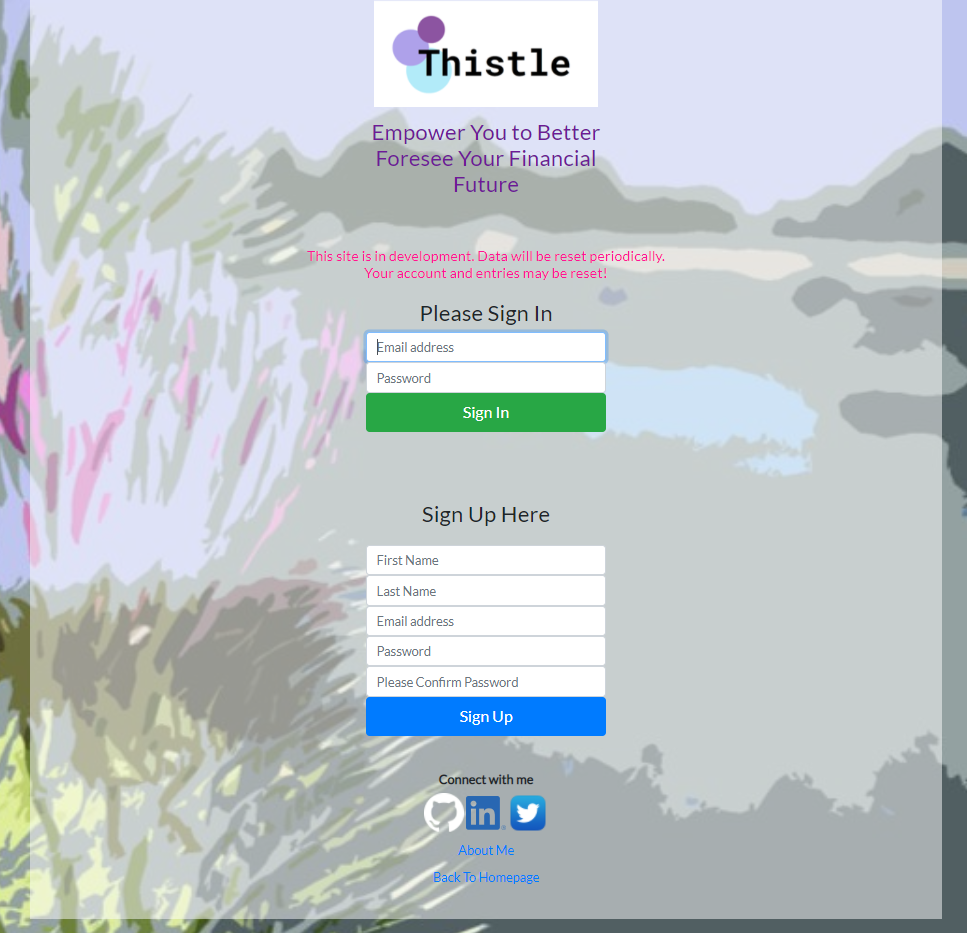
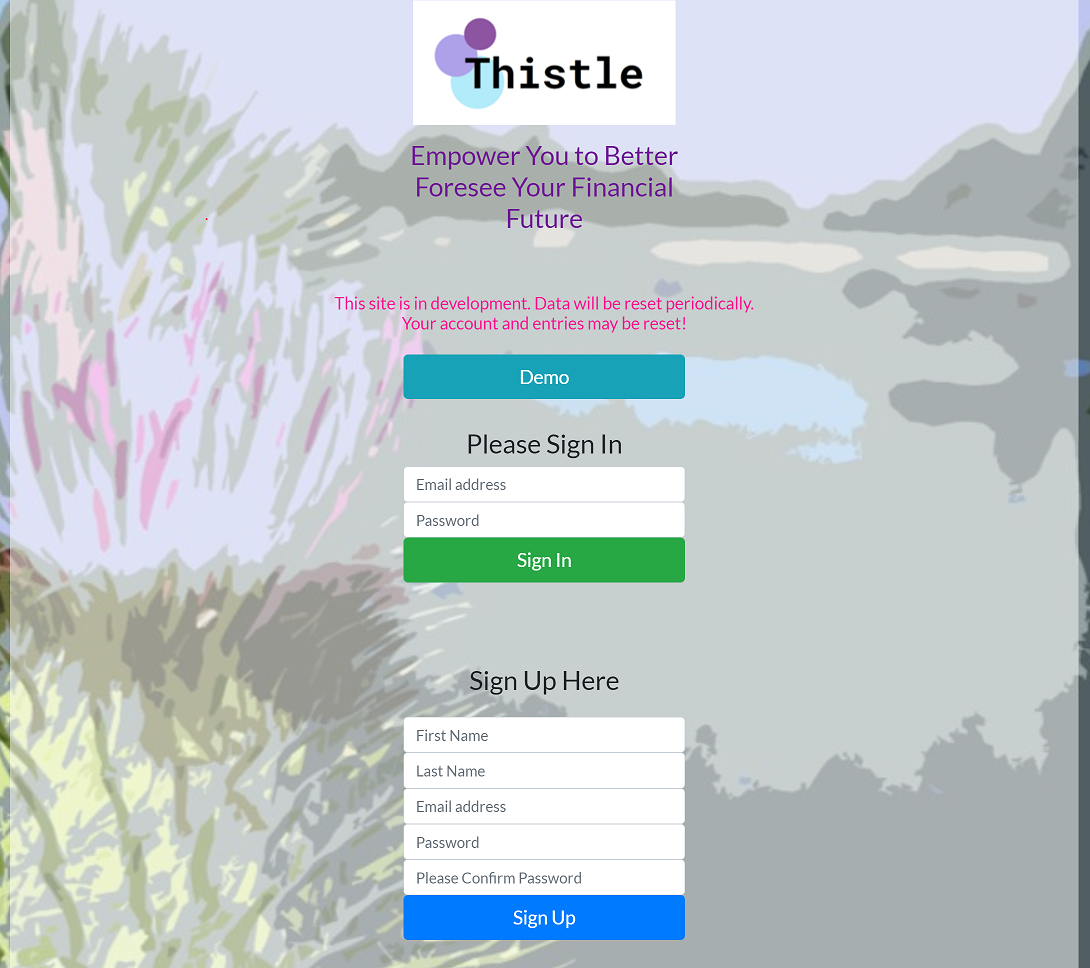
updated homepage img and added iframe

diff --git a/templates/homepage.html b/templates/homepage.html
@@ -4,98 +4,108 @@
 {% block body %}
 
 <body class="text-center">
-  <img src="/static/ThistleLogo.png" />
-  <!-- <h1 class="title">Thistle</h1> -->
-  <h3 id="subtitle">Empower You to Better Foresee Your Financial Future</h3>
-  <br>
-  <br>
-  <h5 class="warning">This site is in development. Data will be reset periodically. <br>Your account and entries may
-    be
-    reset!</h5>
-  <form class="form"
-        action="/demo"
-        method="POST">
-    <button type="submit"
-            class="btn btn-lg btn-info btn-block"
-            data-toggle="tooltip"
-            title="Ms Piggy's Profile">Demo</button>
-  </form>
+       <img src="/static/ThistleLogo.png" />
+       <!-- <h1 class="title">Thistle</h1> -->
+       <h3 id="subtitle">Empower You to Better Foresee Your Financial Future</h3>
+       <br>
+       <br>
+       <h5 class="warning">This site is in development. Data will be reset periodically. <br>Your account and entries
+              may
+              be
+              reset!</h5>
+       <form class="form"
+             action="/demo"
+             method="POST">
+              <button type="submit"
+                      class="btn btn-lg btn-info btn-block"
+                      data-toggle="tooltip"
+                      title="Ms Piggy's Profile">Demo</button>
+       </form>
 
-  <form class="form"
-        action="/confirm_account"
-        method="POST">
-    <h3>Please Sign In</h3>
-    <label for="sign_in_email"
-           class="sr-only">Email address</label>
-    <input type="email"
-           id="sign_in_email"
-           class="form-control"
-           name="email"
-           placeholder="Email address"
-           required
-           autofocus>
-    <label for="inputPassword"
-           class="sr-only">Password</label>
-    <input type="password"
-           id="inputPassword"
-           class="form-control"
-           name="password"
-           placeholder="Password"
-           required>
-    <button class="btn btn-lg btn-success btn-block"
-            type="submit">Sign In</button>
-  </form>
-  <br>
-  <br>
-  <br>
-  <h3>Sign Up Here</h3>
-  <form id="create_user"
-        class="form"
-        action="/create_user"
-        method="POST">
-    <label for="inputFirstName"
-           class="sr-only">First Name</label>
-    <input type="text"
-           id="inputFirstName"
-           class="form-control"
-           name="first_name"
-           placeholder="First Name"
-           required>
+       <form class="form"
+             action="/confirm_account"
+             method="POST">
+              <h3>Please Sign In</h3>
+              <label for="sign_in_email"
+                     class="sr-only">Email address</label>
+              <input type="email"
+                     id="sign_in_email"
+                     class="form-control"
+                     name="email"
+                     placeholder="Email address"
+                     required
+                     autofocus>
+              <label for="inputPassword"
+                     class="sr-only">Password</label>
+              <input type="password"
+                     id="inputPassword"
+                     class="form-control"
+                     name="password"
+                     placeholder="Password"
+                     required>
+              <button class="btn btn-lg btn-success btn-block"
+                      type="submit">Sign In</button>
+       </form>
+       <br>
+       <br>
+       <br>
+       <h3>Sign Up Here</h3>
+       <form id="create_user"
+             class="form"
+             action="/create_user"
+             method="POST">
+              <label for="inputFirstName"
+                     class="sr-only">First Name</label>
+              <input type="text"
+                     id="inputFirstName"
+                     class="form-control"
+                     name="first_name"
+                     placeholder="First Name"
+                     required>
 
-    <label for="inputLastName"
-           class="sr-only">Last Name</label>
-    <input type="text"
-           id="inputLastName"
-           class="form-control"
-           name="last_name"
-           placeholder="Last Name"
-           required>
+              <label for="inputLastName"
+                     class="sr-only">Last Name</label>
+              <input type="text"
+                     id="inputLastName"
+                     class="form-control"
+                     name="last_name"
+                     placeholder="Last Name"
+                     required>
 
-    <label for="inputEmail"
-           class="sr-only">Email address</label>
-    <input type="email"
-           id="new_email"
-           class="form-control"
-           name="email"
-           placeholder="Email address"
-           required>
+              <label for="inputEmail"
+                     class="sr-only">Email address</label>
+              <input type="email"
+                     id="new_email"
+                     class="form-control"
+                     name="email"
+                     placeholder="Email address"
+                     required>
 
-    <label for="new-password"
-           class="sr-only">Password</label>
-    <input type="password"
-           id="new_password"
-           class="form-control"
-           name="new_password"
-           placeholder="Password"
-           required>
-    <input type="password"
-           id="new_password_conf"
-           class="form-control"
-           name="new_password_conf"
-           placeholder="Please Confirm Password"
-           required>
-    <button class="btn btn-lg btn-primary btn-block"
-            type="submit">Sign Up</button>
-  </form>
+              <label for="new-password"
+                     class="sr-only">Password</label>
+              <input type="password"
+                     id="new_password"
+                     class="form-control"
+                     name="new_password"
+                     placeholder="Password"
+                     required>
+              <input type="password"
+                     id="new_password_conf"
+                     class="form-control"
+                     name="new_password_conf"
+                     placeholder="Please Confirm Password"
+                     required>
+              <button class="btn btn-lg btn-primary btn-block"
+                      type="submit">Sign Up</button>
+       </form>
+       <br>
+       <br>
+       <iframe width="560"
+               height="315"
+               src="https://www.youtube-nocookie.com/embed/G3zVo_hxHpk"
+               title="YouTube video player"
+               frameborder="0"
+               allow="accelerometer; autoplay; clipboard-write; encrypted-media; gyroscope; picture-in-picture"
+               allowfullscreen></iframe>
 </body>
 {% endblock %}

diff --git a/templates/base.html b/templates/base.html
@@ -1,5 +1,5 @@
 <!doctype html>
-<html lang="en">
+<html lang="en-US">
 
 <head>
   <meta charset="utf-8">
@@ -19,6 +19,8 @@
         type="image/png"
         sizes="32x32"
         href="/static/favicon-32x32.png">
+  <script src='/static/features.js'
+          defer></script>
   {% block head %}{% endblock %}
 </head>
 
@@ -48,7 +50,7 @@
     {% endfor %}
     {% block body %}{% endblock %}
     {% block after_body %}{% endblock %}
-    <script src='/static/features.js'></script>
+
 
     <div class="container footer">
       <h6><b>Connect with me</b></h6>
